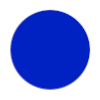
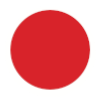
Phase4 左カラム（世界ランク, マイデータ）

diff --git a/src/components/LuneTower/LuneTower.tsx b/src/components/LuneTower/LuneTower.tsx
@@ -9,6 +9,11 @@ import ltRivalRankIcon from '../../assets/lt-rival-rank-icon-unselected.png'
 import ltRewardIcon from '../../assets/lt-reward-icon-unselected.png'
 import ltSeasonBase from '../../assets/lt-season-base.png'
 import redCircle from '../../assets/redcircle.png'
+import ltRankingTitleDecoration from '../../assets/lt-ranking-title-decoration.png'
+import ltMydataPanelBase from '../../assets/lt-mydata-panel-base.png'
+import ltMydataTitleBg from '../../assets/lt-mydata-title-bg.png'
+import ltFloorIcon from '../../assets/lt-floor-icon.png'
+import ltClockIcon from '../../assets/lt-clock-icon.png'
 
 /** タブの種類 */
 type TabType = 'world' | 'rival' | 'reward'
@@ -62,6 +67,7 @@ export const LuneTower = () => {
           {/* ヘルプボタン（右上） */}
           <button
             className="absolute -top-0 -right-1 w-4 h-4 bg-[#2a2a5a] rounded-md flex items-center justify-center text-cmWhitePrimary text-xs border border-[#4a4a8a]"
+            style={{ boxShadow: '2px 2px 4px rgba(0, 0, 0, 0.4)' }}
             onClick={() => console.log('ヘルプボタンクリック')}
           >
             ?
@@ -87,6 +93,7 @@ export const LuneTower = () => {
               {/* ヘルプボタン（右上） */}
               <button
                 className="absolute -top-1 -right-4 w-4 h-4 bg-[#2a2a5a] rounded-md flex items-center justify-center text-cmWhitePrimary text-xs font-bold border border-[#4a4a8a]"
+                style={{ boxShadow: '2px 2px 4px rgba(0, 0, 0, 0.4)' }}
                 onClick={() => console.log('ランキングヘルプクリック')}
               >
                 ?
@@ -158,7 +165,7 @@ export const LuneTower = () => {
                 <img
                   src={redCircle}
                   alt="通知"
-                  className="absolute -top-1 -right-1 w-3 h-3"
+                  className="absolute -top-1 -right-1 w-3 h-3 "
                 />
               </button>
             </div>
@@ -185,16 +192,83 @@ export const LuneTower = () => {
         {/* --- コンテンツエリア：左右2カラム構成 --- */}
         <div className="flex-1 flex overflow-hidden p-2 bg-cmModalBg/50 rounded-md border-2 border-white">
           {/* 左カラム：世界ランクタイトル + マイデータパネル */}
-          <div className="w-[22%] flex flex-col border-r border-black/10 pr-2">
-            <span className="text-CmBasicText font-mplus-rounded text-shadow-default text-xs">
-              【左カラム】
-            </span>
-            <span className="text-CmBasicText font-mplus-rounded text-shadow-default text-xs mt-1">
-              ・世界ランクタイトル
-            </span>
-            <span className="text-CmBasicText font-mplus-rounded text-shadow-default text-xs">
-              ・マイデータパネル
-            </span>
+          <div className="w-[22%] flex flex-col pr-2 gap-2">
+            {/* 世界ランクタイトル */}
+            <div
+              className="relative h-[25%] flex items-center justify-center bg-contain bg-center bg-no-repeat"
+              style={{ backgroundImage: `url(${ltRankingTitleDecoration})` }}
+            >
+              <span
+                className="text-cmWhitePrimary font-dela-gothic text-lg text-shadow-title"
+                style={{
+                  WebkitTextStroke: '1.5px var(--color-cmUnselectedTab)'
+                }}
+              >
+                世界ランク
+              </span>
+            </div>
+
+            {/* マイデータセクション（タイトルとパネルを上下に隣接） */}
+            <div className="flex-1 flex flex-col items-center">
+              {/* マイデータタイトル */}
+              <div
+                className="h-8 w-26 flex items-center justify-center bg-contain bg-center bg-no-repeat"
+                style={{ backgroundImage: `url(${ltMydataTitleBg})` }}
+              >
+                <span className="text-cmWhitePrimary font-mplus-rounded text-xs font-bold">
+                  マイデータ
+                </span>
+              </div>
+
+              {/* マイデータパネル（ベージュ部分） */}
+              <div
+                className="relative flex-1 flex flex-col bg-cover bg-center bg-no-repeat p-2 w-26"
+                style={{ backgroundImage: `url(${ltMydataPanelBase})` }}
+              >
+                {/* マイデータ 注釈ボタン（右上） */}
+                <button
+                  className="absolute top-1 right-1 w-4 h-4 bg-cmUnselectedTab rounded-md flex items-center justify-center text-cmWhitePrimary text-xs font-bold"
+                  style={{ boxShadow: '2px 2px 4px rgba(0, 0, 0, 0.4)' }}
+                  onClick={() => console.log('マイデータ注釈クリック')}
+                >
+                  !
+                </button>
+
+                {/* プレイヤーアイコン（仮） */}
+                <div className="flex justify-center mb-2">
+                  <div className="w-12 h-12 bg-white rounded flex items-center justify-center">
+                    <span className="text-xs text-CmBasicText">ICON</span>
+                  </div>
+                </div>
+
+                {/* 順位 */}
+                <div className="text-center mb-2">
+                  <span className="text-CmBasicText font-mplus-rounded text-lg font-bold">
+                    10000位
+                  </span>
+                </div>
+
+                {/* フロア + タイム */}
+                <div className="flex items-center justify-center gap-4">
+                  {/* フロア */}
+                  <div className="flex items-center gap-1">
+                    <img src={ltFloorIcon} alt="フロア" className="h-4 w-auto" />
+                    <span className="text-CmBasicText font-mplus-rounded text-xs font-bold">
+                      999
+                    </span>
+                  </div>
+
+                  {/* タイム */}
+                  <div className="flex items-center gap-1">
+                    <img src={ltClockIcon} alt="タイム" className="h-4 w-auto" />
+                    <span className="text-CmBasicText font-mplus-rounded text-xs font-bold">
+                      5:00
+                    </span>
+                  </div>
+                </div>
+
+              </div>
+            </div>
           </div>
 
           {/* 右カラム：ランキングリスト（スクロール可能） */}
